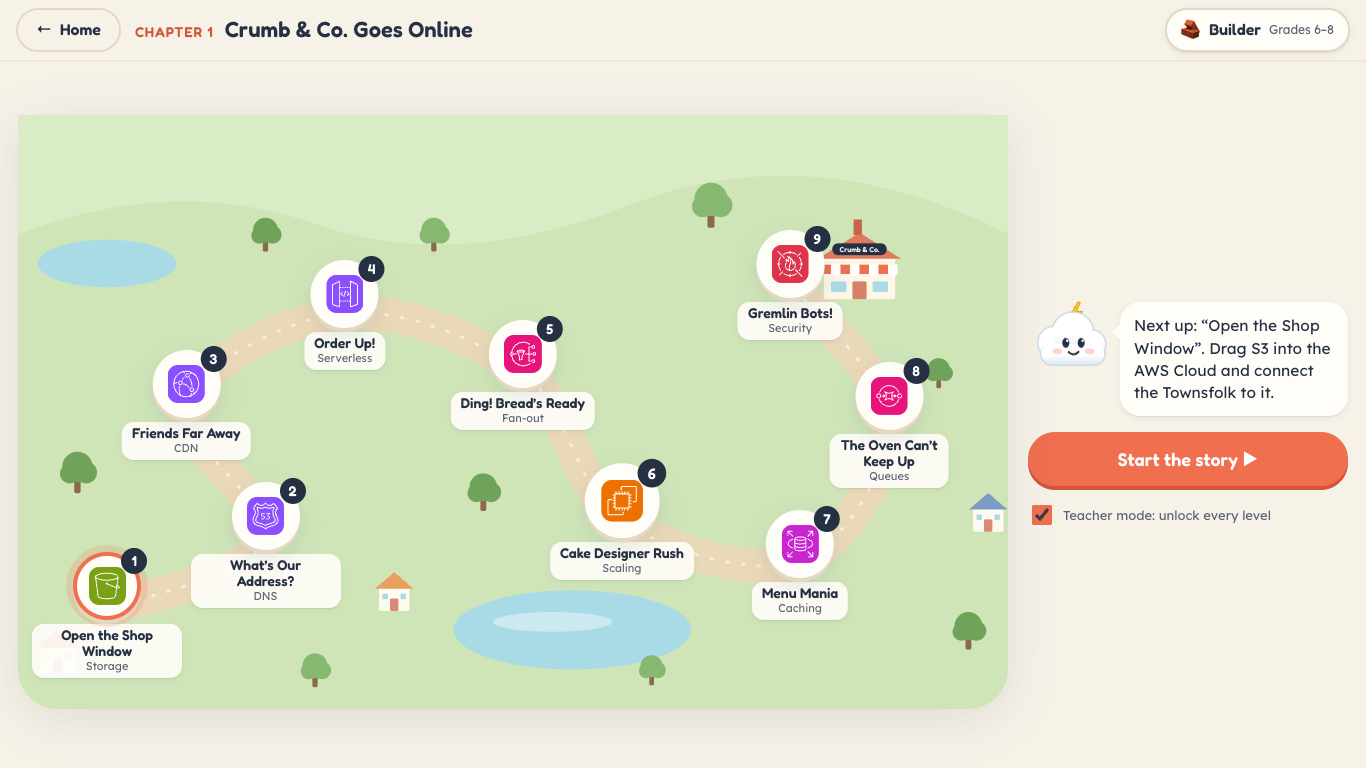
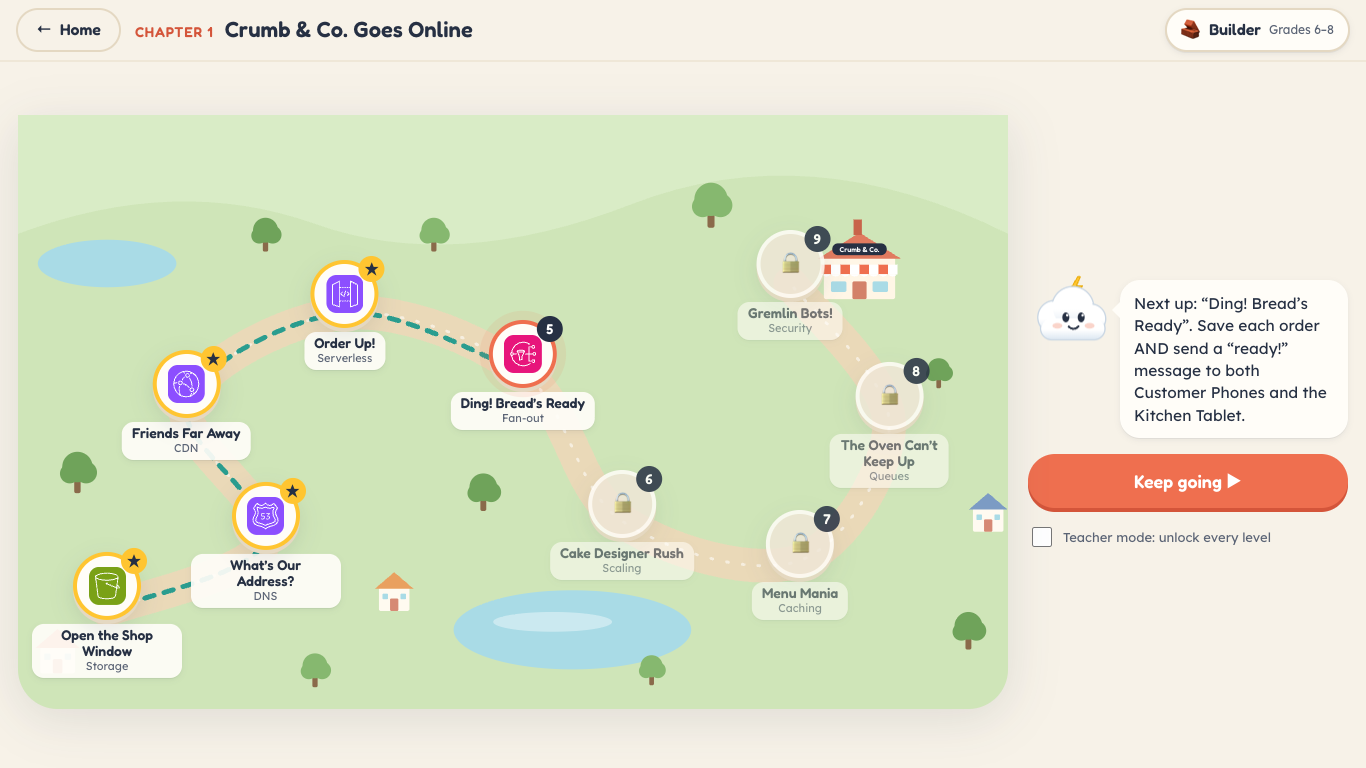
Add app screenshots to the README
Retake the home, level map, level 6 overload, invalid connection, and
Playground screenshots from the current app (48 pieces, badges), and
show them in the README.

diff --git a/README.md b/README.md
@@ -2,6 +2,8 @@
 
 A visual, game-like web app that teaches K–12 students how AWS services fit together.
 
+![Spark home screen: Story Mode and Playground over a cartoon town connected to the AWS cloud](docs/screens/home.png)
+
 - **Story Mode**: 9 levels where Baker Rosa's bakery, Crumb & Co., goes online. Each level gives you a few
   pieces. You connect them and press **Run** to watch requests flow along the arrows. Overloaded pieces
   turn red; queued work waits in line; gremlin bots get blocked.
@@ -9,6 +11,12 @@ A visual, game-like web app that teaches K–12 students how AWS services fit to
   that doesn't, and Sparky explains why and suggests what to connect instead.
 - **Grade bands**: Explorer (K–5), Builder (6–8), and Architect (9–12). Each band changes the names,
   explanations, numbers, and hints.
+
+| Story Mode level map | A level running: one server is overloaded |
+|---|---|
+| ![Chapter 1 level map with four levels complete](docs/screens/level-map.png) | ![Level 6: 150 visitors reach a server that can handle 50, so it turns red](docs/screens/level6-overload.png) |
+| **Sparky explains a connection that doesn't fit** | **Playground with IAM and KMS badges** |
+| ![Connecting customers straight to DynamoDB, and Sparky suggesting the Front Desk instead](docs/screens/invalid-connection.png) | ![Playground: CloudFront, S3, API Gateway, Lambda, DynamoDB, and Bedrock, with IAM and KMS badge arrows](docs/screens/playground.png) |
 
 ## Run it
 
